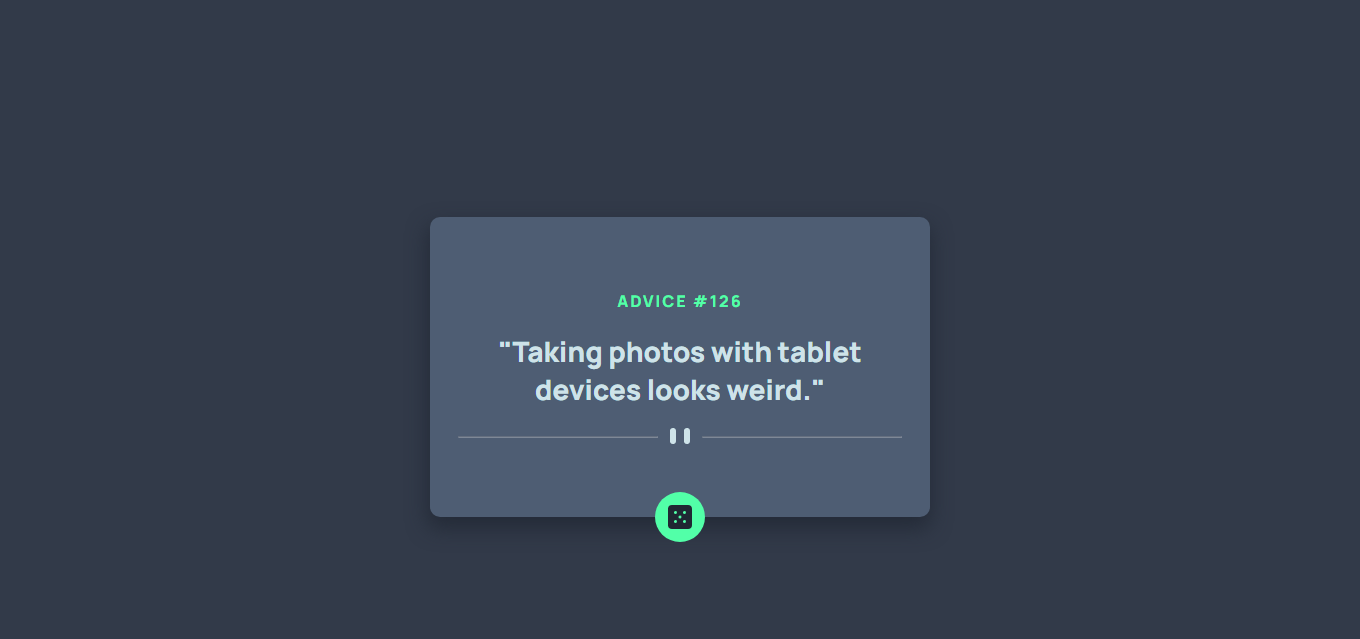
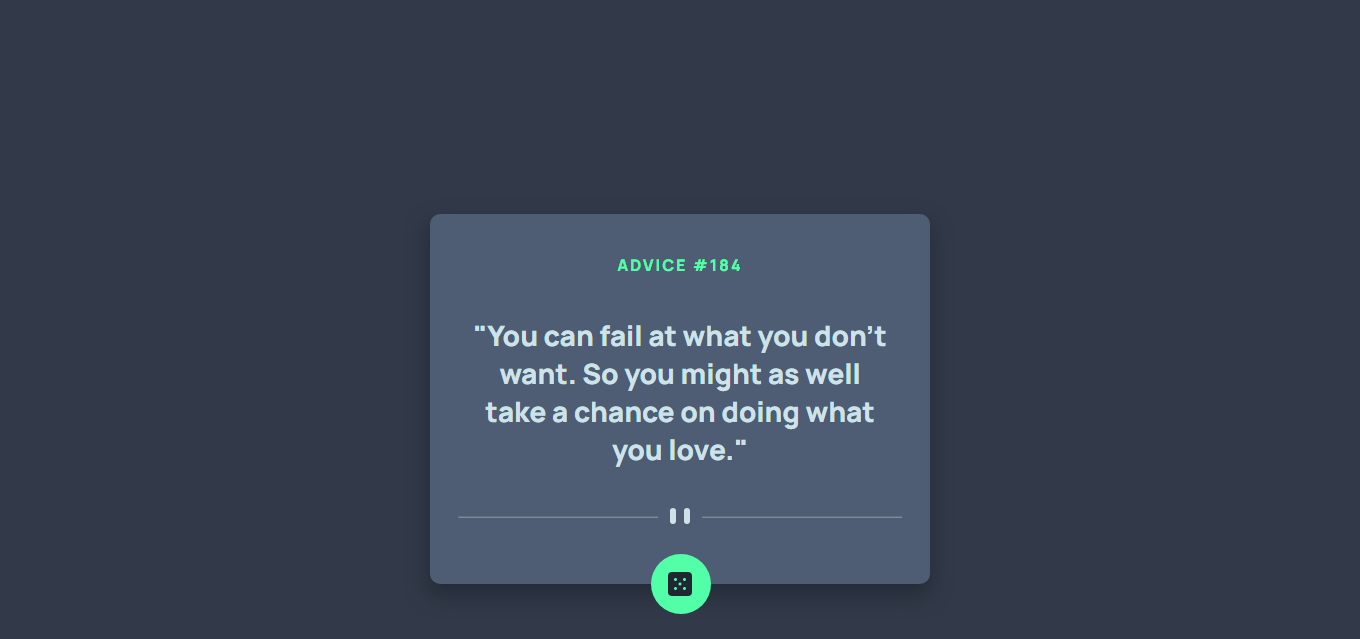
fixing sizes and updating the screenshot

diff --git a/src/index.css b/src/index.css
@@ -58,7 +58,6 @@ main {
   display: flex;
   flex-direction: column;
   font-weight: 800;
-  justify-content: center;
   align-items: center;
   gap: 2rem;
   background: var(--grayish-blue);
@@ -83,6 +82,8 @@ main {
 
 .advice-content {
   font-size: 2.8rem;
+  padding: 2rem;
+  text-align: center;
 }
 
 .dice-container {
@@ -93,7 +94,7 @@ main {
 }
 
 .divider {
-  margin-bottom: 2rem;
+  margin-bottom: 4rem;
   position: relative;
 }
 
@@ -121,8 +122,8 @@ main {
   border-radius: 50%;
   background: var(--neon-green);
   position: absolute;
-  left: -17.1px;
-  bottom: -17.4px;
+  left: -17.2px;
+  bottom: -17.2px;
   z-index: -1;
   transition: all 0.5s;
 }
@@ -139,7 +140,7 @@ main {
 }
 
 .dice:hover {
-  transform: rotate(90deg);
+  transform: rotate(180deg);
 
   transition: all 1s;
 }

diff --git a/src/components/Advice.jsx b/src/components/Advice.jsx
@@ -42,11 +42,11 @@ const Advice = () => {
 
   return (
     <div className="advice-card">
-      <p className="advice-id">Advice #{advice.id}</p>
+      <h1 className="advice-id">Advice #{advice.id}</h1>
       {loading ? (
         <Loading />
       ) : (
-        <h1 className="advice-content">"{advice.advice}"</h1>
+        <p className="advice-content">"{advice.advice}"</p>
       )}
       <div className="divider">
         <hr className="right" />
